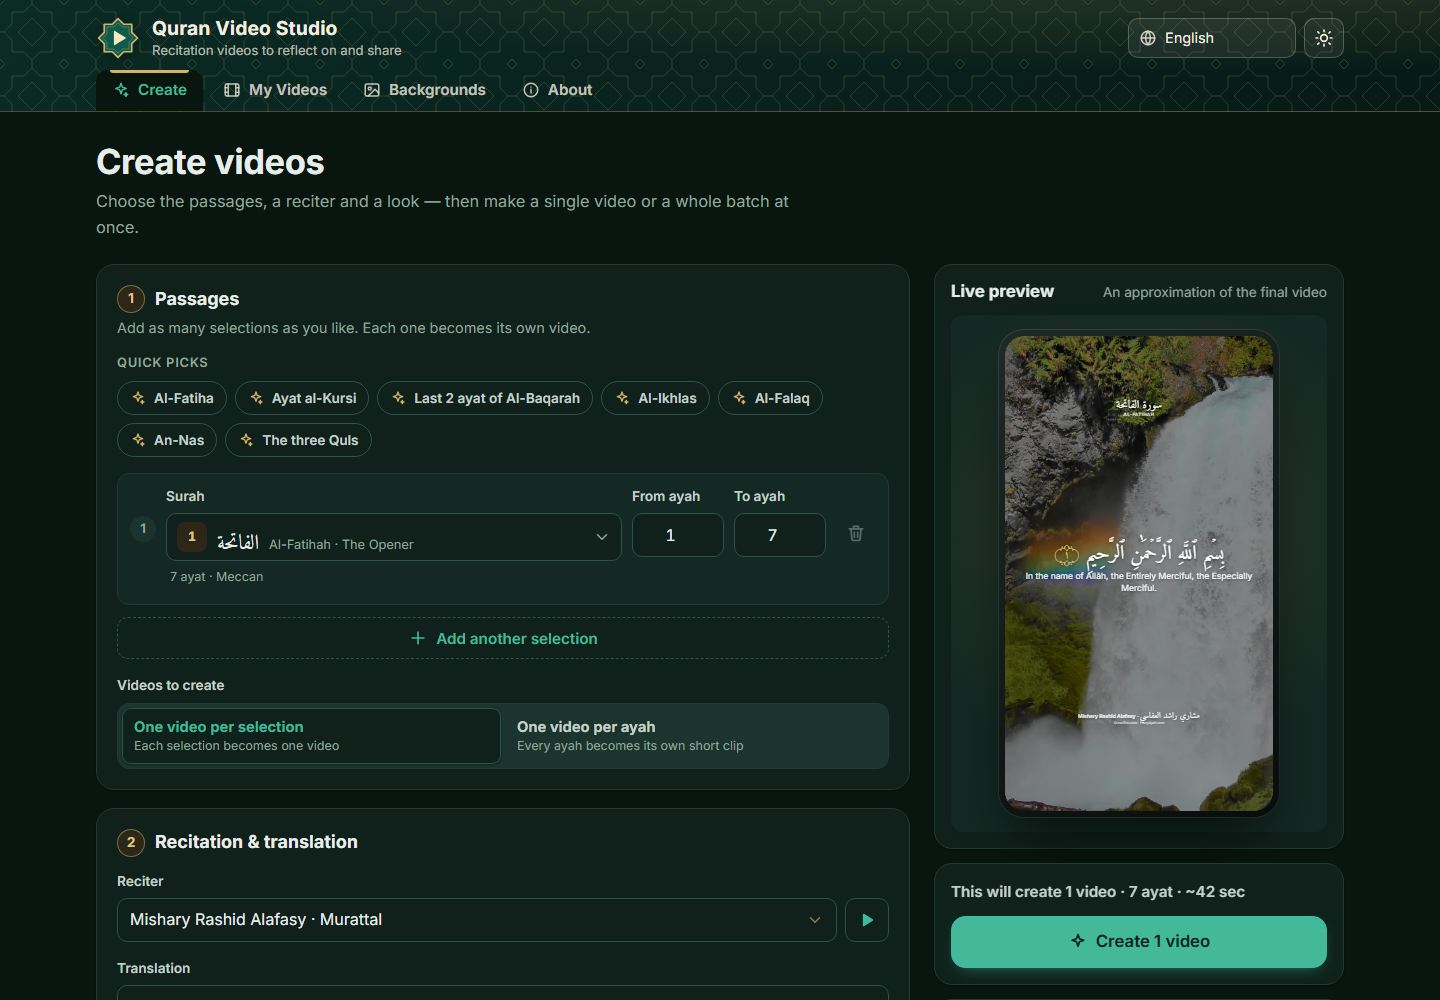
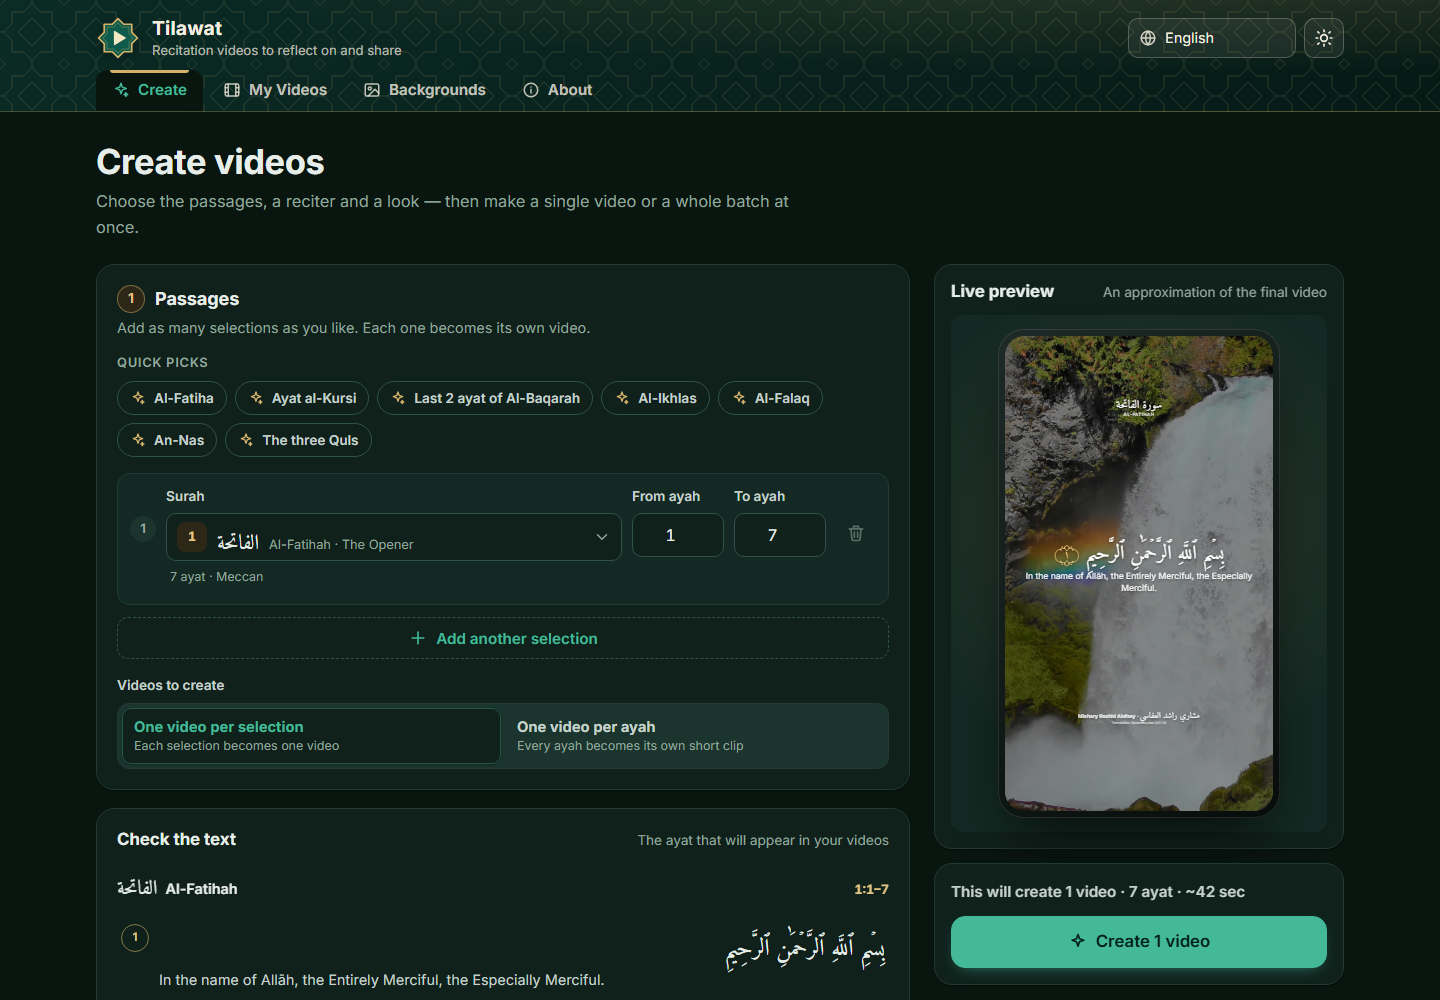
Rename to Tilawat; drop Pexels from the About credits
- App name: Tilawat (تلاوات in Arabic, تلاوت in Urdu and Persian) in the header, tab titles,
  README, package, license and server output; new README screenshot
- About page and footer credit only the sources the app actually ships with

diff --git a/public/index.html b/public/index.html
@@ -381,7 +381,6 @@
           <ul class="source-list">
             <li><a href="https://quranenc.com" target="_blank" rel="noopener noreferrer" dir="ltr">QuranEnc.com</a><span data-i18n="about.sourceQuranEnc"></span></li>
             <li><a href="https://everyayah.com" target="_blank" rel="noopener noreferrer" dir="ltr">EveryAyah.com</a><span data-i18n="about.sourceEveryAyah"></span></li>
-            <li><a href="https://www.pexels.com" target="_blank" rel="noopener noreferrer" dir="ltr">Pexels</a><span data-i18n="about.sourcePexels"></span></li>
             <li><a href="https://pixabay.com" target="_blank" rel="noopener noreferrer" dir="ltr">Pixabay</a><span data-i18n="about.sourcePixabay"></span></li>
             <li><a href="https://images.nasa.gov" target="_blank" rel="noopener noreferrer" dir="ltr">NASA</a><span data-i18n="about.sourceNasa"></span></li>
           </ul>
@@ -400,7 +399,6 @@
       <span data-i18n="footer.text"></span>
       <a href="https://quranenc.com" target="_blank" rel="noopener noreferrer" dir="ltr">QuranEnc.com</a> ·
       <a href="https://everyayah.com" target="_blank" rel="noopener noreferrer" dir="ltr">EveryAyah.com</a> ·
-      <a href="https://www.pexels.com" target="_blank" rel="noopener noreferrer" dir="ltr">Pexels</a> ·
       <a href="https://pixabay.com" target="_blank" rel="noopener noreferrer" dir="ltr">Pixabay</a> ·
       <a href="https://images.nasa.gov" target="_blank" rel="noopener noreferrer" dir="ltr">NASA</a>
     </p>

diff --git a/server/index.js b/server/index.js
@@ -3,6 +3,7 @@ import path from 'node:path';
 import { PUBLIC_DIR, OUTPUT_DIR, FONTS_DIR, ensureDirs } from './paths.js';
 import { errorHandler } from './lib/errors.js';
 import { lanAddresses } from './lib/net.js';
+import { APP_NAME } from './lib/brand.js';
 
 ensureDirs();
 
@@ -34,7 +35,7 @@ app.use(errorHandler);
 const PORT = Number(process.env.PORT) || 4700;
 const HOST = process.env.HOST || '0.0.0.0';
 app.listen(PORT, HOST, () => {
-  console.log(`Quran Video Studio running:`);
+  console.log(`${APP_NAME} running:`);
   console.log(`  Local:   http://localhost:${PORT}`);
   for (const ip of lanAddresses()) console.log(`  Network: http://${ip}:${PORT}`);
 });

diff --git a/scripts/check-tafsirs.js b/scripts/check-tafsirs.js
@@ -56,7 +56,7 @@ async function getJson(url) {
   for (let attempt = 0; attempt < 3; attempt++) {
     await sleep(DELAY_MS * (attempt + 1));
     try {
-      const res = await fetch(url, { headers: { 'User-Agent': 'QuranVideoStudio/0.1 (+local)' }, signal: AbortSignal.timeout(60000) });
+      const res = await fetch(url, { headers: { 'User-Agent': 'Tilawat/0.1 (+local)' }, signal: AbortSignal.timeout(60000) });
       if (res.status === 404) return null;
       if (!res.ok) throw new Error(`HTTP ${res.status}`);
       const text = await res.text();

diff --git a/server/lib/http.js b/server/lib/http.js
@@ -4,7 +4,7 @@ import path from 'node:path';
 import { Readable } from 'node:stream';
 import { pipeline } from 'node:stream/promises';
 
-const USER_AGENT = 'QuranVideoStudio/0.1 (+local)';
+const USER_AGENT = 'Tilawat/0.1 (+local)';
 
 async function fetchWithTimeout(url, { headers = {}, timeoutMs = 20000 } = {}) {
   const res = await fetch(url, {

diff --git a/public/css/app.css b/public/css/app.css
@@ -1,4 +1,4 @@
-/* Quran Video Studio — calm emerald / warm gold on ivory, night-green dark theme.
+/* Tilawat — calm emerald / warm gold on ivory, night-green dark theme.
    Layout uses CSS logical properties throughout so RTL (ar/ur/fa) mirrors cleanly. */
 
 /* ---------- Fonts ---------- */

diff --git a/server/lib/brand.js b/server/lib/brand.js
@@ -1,2 +1,2 @@
-// Working title — rename here (and in public/i18n/*.json "app.name") once a name is chosen.
-export const APP_NAME = 'Quran Video Studio';
+// Product name for server-side output. The UI name lives in public/i18n/*.json ("app.name").
+export const APP_NAME = 'Tilawat';

diff --git a/server/render/subtitles.js b/server/render/subtitles.js
@@ -233,7 +233,7 @@ export function buildAss({ layout, fonts, position, cues, cards = [], header, fo
   }
 
   return `[Script Info]
-; Generated by Quran Video Studio
+; Generated by Tilawat
 ScriptType: v4.00+
 PlayResX: ${L.width}
 PlayResY: ${L.height}

diff --git a/README.md b/README.md
@@ -1,8 +1,8 @@
-# Quran Video Studio
+<h1 align="center">Tilawat · تلاوات</h1>
 
-**Turn Quran recitations into beautiful, share-ready videos — in minutes, on your own computer.**
+<p align="center"><b>Turn Quran recitations into beautiful, share-ready videos — in minutes, on your own computer.</b></p>
 
-Pick the ayat, a reciter and a look. Quran Video Studio fetches the verified Arabic text, a
+Pick the ayat, a reciter and a look. Tilawat fetches the verified Arabic text, a
 translation and the recitation, lays them over calm nature, space or mosque footage, and renders
 finished MP4 videos for Reels, TikTok, YouTube Shorts, WhatsApp Status or YouTube — with the
 Arabic perfectly shaped and every ayah appearing exactly while it is recited.
@@ -15,9 +15,6 @@ Arabic perfectly shaped and every ayah appearing exactly while it is recited.
 <p align="center">
   <img src="docs/images/app-create.png" width="80%" alt="The Create page">
 </p>
-
-> *(“Quran Video Studio” is a working title — the name lives in `public/i18n/*.json` → `app.name`
-> and `server/lib/brand.js`.)*
 
 ---
 
